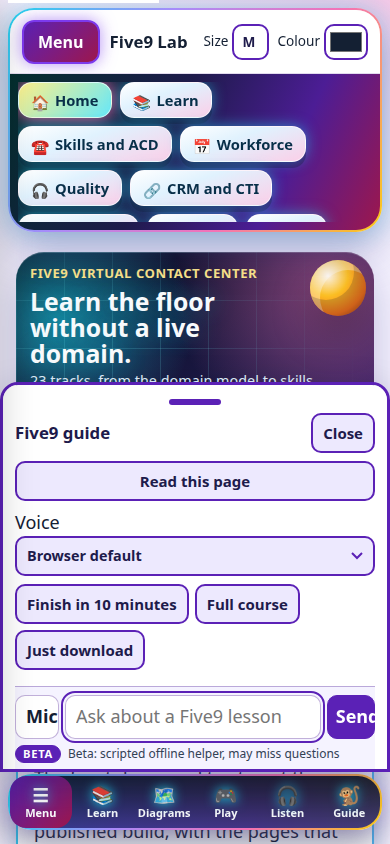
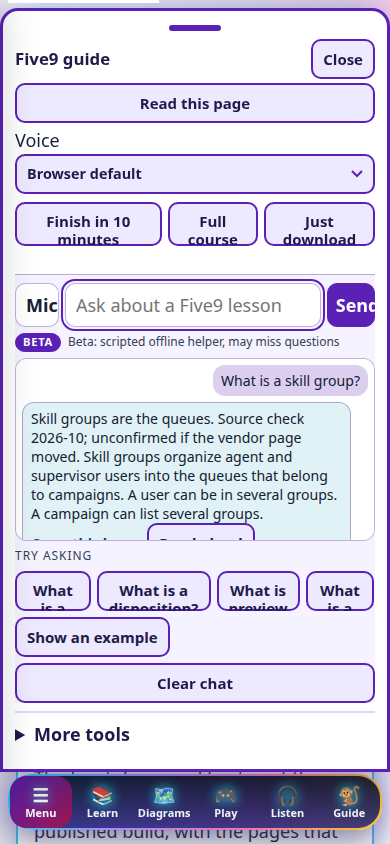
Give the phone answer log at least 140px at both heights.
The 420px rule capped the log at 88px, and the guide also pinned the sheet under the hero title. The sheet now fills the phone and the log stays at least 140px after an answer.

diff --git a/tests/lab.spec.js b/tests/lab.spec.js
@@ -121,33 +121,41 @@ test("chat input fills the phone sheet", async ({ browser }) => {
   }
 });
 
-test("short phone answer log is at least 120px", async ({ browser }) => {
-  const context = await browser.newContext({
-    viewport: { width: 390, height: 430 },
-    hasTouch: true,
-    reducedMotion: "reduce",
-  });
-  const page = await context.newPage();
-  await ready(page);
-  await page.goto("/index.html");
-  await page.locator(".cg-monkey").click();
-  await page.waitForFunction(() => window.__f9botReady === true);
-  await expect(page.locator(".chrome-stack")).toBeHidden();
-  await expect(page.locator(".phone-dock")).toBeHidden();
-  await page.locator("#py-chat-input").fill("What is a skill group?");
-  await page.locator("#py-chat-input").press("Enter");
-  const log = page.locator(".py-chat-log");
-  await expect(log).toBeVisible();
-  await expect(log.locator(".py-msg-bot").last()).toContainText(/skill/i);
-  const visible = await log.evaluate((el) => {
-    const box = el.getBoundingClientRect();
-    const top = Math.max(box.top, 0);
-    const bottom = Math.min(box.bottom, window.innerHeight);
-    return { height: box.height, visible: bottom - top };
-  });
-  expect(visible.height).toBeGreaterThanOrEqual(120);
-  expect(visible.visible).toBeGreaterThanOrEqual(120);
-  await context.close();
+test("answer log stays readable on both phones", async ({ browser }) => {
+  for (const viewport of [
+    { width: 390, height: 844 },
+    { width: 390, height: 430 },
+  ]) {
+    const context = await browser.newContext({
+      viewport,
+      hasTouch: true,
+      reducedMotion: "reduce",
+    });
+    const page = await context.newPage();
+    await ready(page);
+    await page.goto("/index.html");
+    await page.locator(".cg-monkey").click();
+    await page.waitForFunction(() => window.__f9botReady === true);
+    if (viewport.height === 430) {
+      await expect(page.locator(".chrome-stack")).toBeHidden();
+      await expect(page.locator(".phone-dock")).toBeHidden();
+    }
+    await page.locator("#py-chat-input").fill("What is a skill group?");
+    await page.locator("#py-chat-input").press("Enter");
+    const log = page.locator(".py-chat-log");
+    await expect(log).toBeVisible();
+    await expect(log.locator(".py-msg-bot").last()).toContainText(/skill/i);
+    const visible = await log.evaluate((el) => {
+      const box = el.getBoundingClientRect();
+      const panel = document.querySelector("#cg-panel").getBoundingClientRect();
+      const top = Math.max(box.top, panel.top, 0);
+      const bottom = Math.min(box.bottom, panel.bottom, window.innerHeight);
+      return { height: box.height, visible: Math.max(0, bottom - top) };
+    });
+    expect(visible.height, `${viewport.width}x${viewport.height} log height`).toBeGreaterThanOrEqual(120);
+    expect(visible.visible, `${viewport.width}x${viewport.height} visible log`).toBeGreaterThanOrEqual(120);
+    await context.close();
+  }
 });
 
 test("routing desk is a labelled simulation", async ({ page }) => {

diff --git a/guide/guide.js b/guide/guide.js
@@ -144,38 +144,11 @@
     log.appendChild(p);
     log.scrollTop = log.scrollHeight;
   }
-  function titleTextBottom() {
-    var title = document.querySelector(".hero-title, #main > h1");
-    if (!title) title = document.querySelector("#main h1, .section-head h2");
-    if (!title) return 0;
-    var range = document.createRange();
-    range.selectNodeContents(title);
-    var rects = range.getClientRects();
-    var bottom = 0;
-    for (var i = 0; i < rects.length; i++) {
-      if (rects[i].width > 1 && rects[i].height > 1) bottom = Math.max(bottom, rects[i].bottom);
-    }
-    return bottom;
-  }
-  function fitPanel() {
-    if (!panel) return;
-    panel.style.maxHeight = "";
-    if (panel.hidden || window.innerWidth > 720) return;
-    var bottom = titleTextBottom();
-    if (!bottom) return;
-    var dock = parseFloat(getComputedStyle(document.documentElement).getPropertyValue("--dock-h")) || 72;
-    var gap = 12;
-    if (panel.getBoundingClientRect().top >= bottom + gap) return;
-    var limit = window.innerHeight - dock - bottom - gap;
-    if (limit < 96) limit = 96;
-    panel.style.maxHeight = limit + "px";
-  }
   function setOpen(open) {
     panel.hidden = !open;
     monkey.setAttribute("aria-expanded", open ? "true" : "false");
     pose(open ? "wave" : "idle");
     if (open) showCards();
-    fitPanel();
   }
 
   function voices() {
@@ -385,7 +358,6 @@
       if (rect.top < window.innerHeight - 80 && rect.bottom > 80) hide = rect.top < window.innerHeight * 0.72;
     }
     host.classList.toggle("is-clear", hide);
-    fitPanel();
   }
 
   function greet() {

diff --git a/shared/pybot-chat/chat.css b/shared/pybot-chat/chat.css
@@ -100,10 +100,13 @@
   .py-chat-form { flex: 0 0 auto; }
 }
 @media (max-width: 720px) {
+  .py-chat { flex: 1 1 auto; min-height: 0; display: flex; flex-direction: column; }
   .py-chat-form { order: -1; flex: 0 0 auto; }
+  .py-chat-log { order: 0; flex: 1 1 140px; min-height: 140px; max-height: none; }
+  .py-chat-examples,
+  .py-chat-chips { max-height: 40px; flex: 0 0 auto; flex-wrap: nowrap; }
 }
 @media (max-width: 420px) {
-  .py-chat-log { max-height: 88px; }
   .py-chat-form button[type="submit"] { padding-inline: 8px; }
 }
 @media (max-height: 560px) {
@@ -152,7 +155,7 @@
 @media (max-width: 720px) and (max-height: 520px) {
   .py-chat { display: flex; flex-direction: column; flex: 1 1 auto; min-height: 0; overflow: hidden; }
   .py-chat-form { order: -1; flex: 0 0 auto; }
-  .py-chat-log { order: 0; flex: 1 1 auto; min-height: 120px; max-height: none; }
+  .py-chat-log { order: 0; flex: 1 1 auto; min-height: 140px; max-height: none; }
   .py-chat > .bp-link,
   .py-chat-beta,
   .py-chat-try,

diff --git a/guide/guide.css b/guide/guide.css
@@ -296,15 +296,34 @@ html[data-theme="dark"] .cg-panel {
   .cg-monkey { display: block; width: 96px; height: 112px; }
   .cg-root { z-index: 70; }
   .cg-panel {
+    box-sizing: border-box;
+    display: flex;
+    flex-direction: column;
     position: fixed;
     left: 0;
     right: 0;
-    top: auto;
-    bottom: var(--dock-h, 64px);
+    top: 8px;
+    bottom: auto;
     width: auto;
-    max-height: 60vh;
+    height: calc(100dvh - var(--dock-h, 72px) - 8px);
+    max-height: none;
+    overflow: hidden;
     border-radius: 18px 18px 0 0;
     z-index: 64;
+  }
+  .cg-panel .cg-cards {
+    flex: 0 0 auto;
+    flex-wrap: nowrap;
+    max-height: 44px;
+    margin: 4px 0;
+    overflow-x: auto;
+  }
+  .cg-panel .cg-speak { flex: 0 0 auto; margin: 4px 0; gap: 4px; }
+  .cg-panel [data-f9-chat] {
+    flex: 1 1 auto;
+    min-height: 0;
+    display: flex;
+    flex-direction: column;
   }
   .cg-handle {
     display: block;

diff --git a/sw.js b/sw.js
@@ -1,6 +1,6 @@
 /* Offline shell for the Five9 university. Scope is this directory.
    Precache list is rewritten by scripts/build_precache.mjs. Budget 3.5 MB. */
-const CACHE_NAME = "five9-university-r8";
+const CACHE_NAME = "five9-university-r9";
 const SHELL_ASSETS = [
   "./",
   "./index.html",
